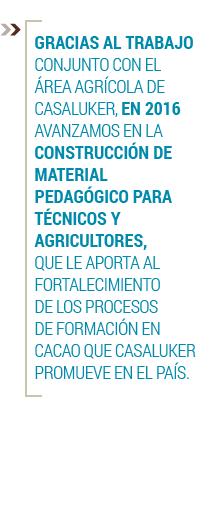
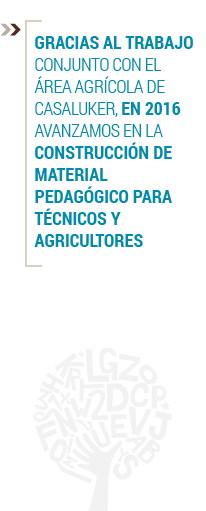
Cambios paginador

Changed region(s): [[0.1165, 0.4697, 0.9612, 0.7926]]

diff --git a/es/css/estilos.css b/es/css/estilos.css
@@ -600,7 +600,7 @@ a.language:hover {
 }
 .paginacion.pt-trigger-container {
 	position: absolute;
-bottom: -90px;
+bottom: -110px;
    /* left: 15%; */
    /* margin: 0 auto !important; */
    /* display: inline-block; */

diff --git a/es/equipo.php b/es/equipo.php
@@ -20,7 +20,8 @@
                 <div class="col-sm-5 col-izq">
                 </div>
                 <div class="col-sm-8 fondo-blanco texto">
-                    <h4 class="subtitulo_texto azul">Equipo <br> <strong>de trabajo</strong></h4>
+                    <h4 class="subtitulo_texto azul">Equipo <br>
+                        <strong>de trabajo</strong></h4>
                     <h5 class="azul destacado">Junta Directiva</h5>
                     <ul class="sinMargin listaAzul">
                         <li>José Alfredo Restrepo Echeverri</li>
@@ -56,29 +57,21 @@
                 <div class="col-sm-5 col-izq">
                 </div>
                 <div class="col-sm-8 fondo-blanco texto">
-                    </br></br></br>
+                    </br>
                     <h5 class="azul destacado">Equipo de trabajo</h5>
                     <h6 class="nombres">Pablo Jaramillo Villegas<br><small>Gerente</small> </h6>
                     <div class="row">
                         <div class="col-sm-8">
-                            <h6 class="nombres">Santiago Isaza Arango <br><small>Director de Educación</small> </h6>
-                            <h6 class="nombres">Ángela Cecilia Vásquez Escobar <br><small>Directora de Estrategia y Proyectos Especiales</small> </h6>
-                            <h6 class="nombres">Constanza Orrego Gómez <br><small>Directora Jurídico Administrativa</small> </h6>
-                            <h6 class="nombres">Juliana Dávila Rincón <br><small>Líder de Comunicaciones</small> </h6>
-                            <h6 class="nombres">Victoria Eugenia Jiménez Castañeda <br><small>Secretaria de Gerencia</small> </h6>
-                            <h6 class="nombres">María Camila Arango Isaza <br><small>Profesional de Educación</small> </h6>
-                            <h6 class="nombres">Ángela María Trujillo Gutiérrez <br><small>Profesional de Educación</small> </h6>
-                            <h6 class="nombres">Andrea Catalina Piedrahita Meza <br><small>Profesional Administrativa</small> </h6>                            
+                            <h6 class="nombres">Santiago Isaza Arango <br><small>Director de Educación</small></h6>
+                            <h6 class="nombres">Ángela Cecilia Vásquez Escobar <br><small>Directora de Estrategia y Proyectos Especiales</small></h6>
+                            <h6 class="nombres">Constanza Orrego Gómez <br><small>Directora Jurídico Administrativa</small></h6>
+                            <h6 class="nombres">Juliana Dávila Rincón <br><small>Líder de Comunicaciones</small></h6>                                                      
                         </div>
                         <div class="col-sm-8">
-                            <h6 class="nombres">Victoria Eugenia Tamayo Lozano <br><small>Líder de Contabilidad</small> </h6>
-                            <h6 class="nombres">Daniela Moreno Gordon <br><small>Asistente Administrativa y de Comunicaciones</small> </h6>
-                            <h6 class="nombres">Andrea Fernanda Muñoz Cuéllar <br><small>Asistente de Proyectos</small> </h6>
-                            <h6 class="nombres">Claudia Milena Rodríguez Valencia<br><small>Analista Contable</small> </h6>
-                            <h6 class="nombres">Fabián Camilo Gallego Gutiérrez  <br><small>Asistente de Cooperación Internacional</small> </h6>
-                            <h6 class="nombres">José Didier Ramírez Rincón <br><small>Auxiliar Proyectos de Educación</small> </h6>                            
-                            <h6 class="nombres">Olga Beatriz Pachón Jiménez <br><small>Servicios Generales</small> </h6>
-                            <h6 class="nombres">Hernando Llano Dávila <br><small>Mensajero</small></h6>
+                            <h6 class="nombres">Victoria Eugenia Jiménez Castañeda <br><small>Secretaria de Gerencia</small></h6>
+                            <h6 class="nombres">María Camila Arango Isaza <br><small>Profesional de Educación</small> </h6>
+                            <h6 class="nombres">Ángela María Trujillo Gutiérrez <br><small>Profesional de Educación</small></h6>
+                            <h6 class="nombres">Andrea Catalina Piedrahita Meza <br><small>Profesional Administrativa</small></h6>  
                         </div>
                     </div>
                     <div class="paginacion pt-trigger-container">
@@ -86,12 +79,12 @@
                           <ul class="pager">
                             <li><a href="#" class="pt-trigger " data-animation="17" data-goto="1">1</a></li>
                             <li><a href="#" class="pt-trigger active" data-animation="17" data-goto="2">2</a></li>
-                            <li><a href="#" class="pt-trigger" data-animation="17" data-goto="3">3</a></li>
-                           
+                            <li><a href="#" class="pt-trigger" data-animation="17" data-goto="3">3</a></li>                           
                           </ul>
                         </nav>
                     </div>
-                    
+                    </br>
+                    <img src="img/EquipoTrabajo.jpg" class="hidden-xs" alt="Equipo de trabajo">
                 </div>
                 <div class="col-sm-3 col-izq">
                     
@@ -102,45 +95,42 @@
             <div class="row contenido">
                 <div class="col-sm-5 col-izq">
                 </div>
-                <div class="col-sm-8 fondo-blanco texto2">
+                
+                <div class="col-sm-8 fondo-blanco texto">
+                    </br></br></br>
                     <div class="row">
                         <div class="col-sm-8">
-                            </br></br></br></br>
-                            <h6 class="nombres">Ángela Cecilia Vásquez Escobar<br>
-                                 Juliana Dávila Rincón<br>
-                                Daniela Moreno Gordon<br>
-                                <small>Coordinación general</small> </h6>
-                            <h6 class="nombres">Bernardo González<br><small>Edición</small> </h6>
-                            <h6 class="nombres"><a class="link_textos" href="http://azoma.net" target="_blank">Azoma.net</a> - <a class="link_textos" href="http://giro360.co" target="_blank">giro360.co</a><br><small>Diseño</small> </h6>
-                            
+                            <h6 class="nombres">Santiago Isaza Arango <br><small>Director de Educación</small> </h6>
+                            <h6 class="nombres">Ángela Cecilia Vásquez Escobar <br><small>Directora de Estrategia y Proyectos Especiales</small> </h6>
+                            <h6 class="nombres">Constanza Orrego Gómez <br><small>Directora Jurídico Administrativa</small> </h6>
+                            <h6 class="nombres">Juliana Dávila Rincón <br><small>Líder de Comunicaciones</small> </h6>
+                            <h6 class="nombres">Victoria Eugenia Jiménez Castañeda <br><small>Secretaria de Gerencia</small> </h6>
+                                                       
                         </div>
                         <div class="col-sm-8">
-                            </br></br></br></br>
-                            <h6>Fundación Luker</h6>
-                            <p>
-                                PBX: (57) (6) 875 64 43 <br>
-                                Cra. 23 # 64 B - 33 piso 3 <br>
-                                Manizales, Caldas <br>
-                                <p><a class="link_textos" href="//facebook.com/FundacionLuker" target="_blank">fb/FundacionLuker</a> <br>
-                                    <a class="link_textos" href="//twitter.com/FundacionLuker" target="_blank">twitter/@FundacionLuker</a><br>
-                                    <a class="link_textos" href="//instagram.com/Funluker" target="_blank">instagram/@Funluker</a><br>
-                                <a class="link_textos" href="mailto:fundacionluker@casaluker.com.co" target="_blank">fundacionluker@casaluker.com.co</a> <br> 
-                                <a class="link_textos" href="//www.fundacionluker.org.co" target="_blank">www.fundacionluker.org.co</a> <br></p>
-                            </p>
+                            <h6 class="nombres">María Camila Arango Isaza <br><small>Profesional de Educación</small> </h6>
+                            <h6 class="nombres">Ángela María Trujillo Gutiérrez <br><small>Profesional de Educación</small> </h6>
+                            <h6 class="nombres">Andrea Catalina Piedrahita Meza <br><small>Profesional Administrativa</small> </h6> 
+                            <h6 class="nombres">Ángela Cecilia Vásquez Escobar<br>
+                            Juliana Dávila Rincón<br>
+                            Daniela Moreno Gordon<br>
+                            <small>Coordinación General Informe de Sostenibilidad 2016</small></h6>
                         </div>
                     </div>
                     <div class="paginacion pt-trigger-container">
                         <nav>
                           <ul class="pager">
                             <li><a href="#" class="pt-trigger " data-animation="17" data-goto="1">1</a></li>
-                            <li><a href="#" class="pt-trigger " data-animation="17" data-goto="2">2</a></li>
+                            <li><a href="#" class="pt-trigger" data-animation="17" data-goto="2">2</a></li>
                             <li><a href="#" class="pt-trigger active" data-animation="17" data-goto="3">3</a></li>
                            
                           </ul>
                         </nav>
                     </div>
-                    
+                    </br>
+                    <img src="img/EquipoTrabajo.jpg" class="hidden-xs" alt="Equipo de trabajo">
                 </div>
+
                 <div class="col-sm-3 col-izq">
                     
                 </div>
